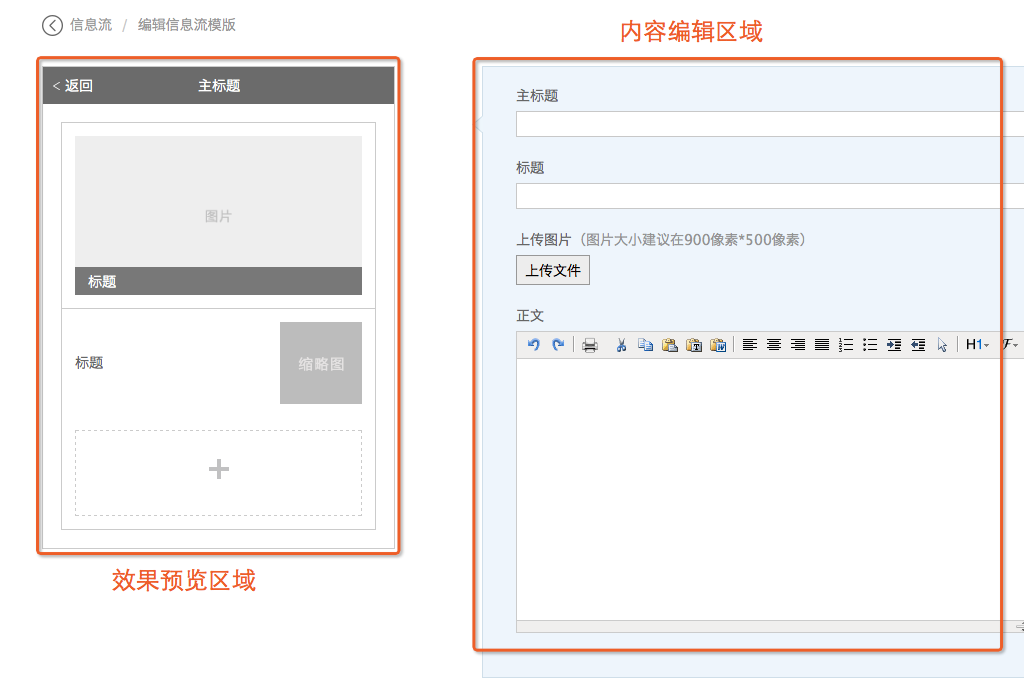
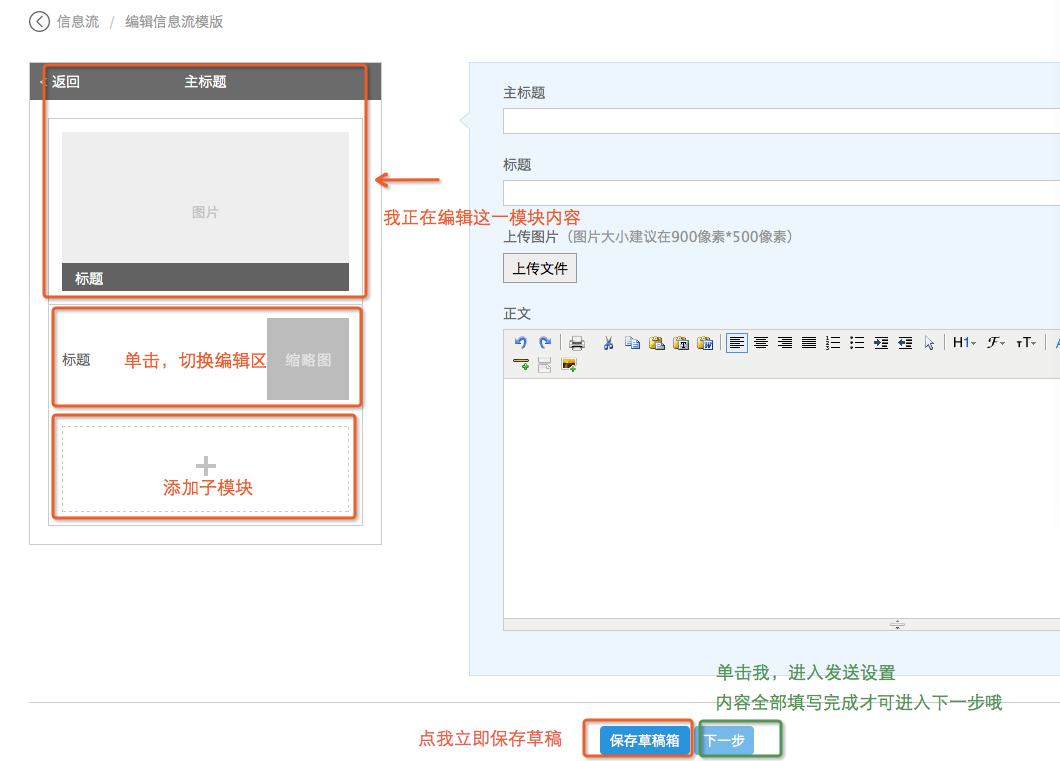
富媒体图文说明更新

Changed region(s): [[0.0, 0.0, 1.0, 1.0]]

diff --git a/zh/docs/guideline/statistical_report.md b/zh/docs/guideline/statistical_report.md
@@ -75,22 +75,51 @@ img[alt=jpush_web] { width: 700px; }
 
 ## 富媒体推送
 
-可推送不同形式的富媒体通知，现阶段可以使用信息流模板和通过URL发送富媒体通知。极光后续会推出更多的模板形式。
+可通过模板发送landing page、弹窗、信息流形式的富媒体通知，或者直接通过URL发送预先编辑好的页面。另外可以通过草稿箱，管理模板草稿。
+
+### 通过landing page 模板发送
+
+* Step1：在应用的“推送”模块，单击“富媒体”按钮；选择“landing page”，目前landing page只提供一种通用模板。
+
+![jpush_web](image/landingpage-1.png)
+
+* Step2：进入模板内容编辑页面，填写所有内容，单击下一步；左侧可预览内容的展示效果；单击【保存草稿】，供以后编辑，从草稿箱中可以找到之前保存的草稿。
+
+![jpush_web](image/landingpage-2.png)
+
+* Step3：进行推送设置。单击“预览富媒体页面”，可以预览刚刚编辑完成的landing page模板。单击页面最下方的 "立即发送" 按钮，即可完成该landing page的发送。
+
+![jpush_web](image/landingpage-3.png)
+
+### 通过弹窗模板发送
+
+* Step1：在应用的“推送”模块，单击“富媒体”按钮；选择“弹窗”，挑选适合的模板。
+
+![jpush_web](image/popup-1.png)
+
+* Step2：进入模板内容编辑页面，填写所有内容，单击下一步；左侧可预览内容的展示效果；单击【保存草稿】，供以后编辑，从【草稿箱】中可以找到之前保存的草稿。
+
+![jpush_web](image/popup-2.png)
+
+* Step3：进行推送设置。单击“预览富媒体页面”，可以预览刚刚编辑完成的弹窗模板。单击页面最下方的 "立即发送" 按钮，即可完成该弹窗的发送。
+
+![jpush_web](image/popup-3.png)
+
 
 ### 通过信息流模板发送
 * Step1：在应用的“推送”模块，单击“富媒体”按钮；选择“信息流”，挑选适合的模板。
 
 ![jpush_web](image/richpush1.png)
 
-* Step2：进入模板内容编辑页面，填写所有内容，单击下一步；左侧可预览内容的展示效果。通过左侧的预览区域，可以切换编辑模块和添加子模块。
+* Step2：进入模板内容编辑页面，填写所有内容，单击下一步；左侧可预览内容的展示效果。通过左侧的预览区域，可以切换编辑模块和添加子模块。单击【保存草稿】，供以后编辑，从【草稿箱】中可以找到之前保存的草稿。
+
 
 ![jpush_web](image/richpush2.png)
-![image](image/richpush3.png)
 
 
 * Step3：进行推送设置。单击“预览富媒体页面”，可以预览刚刚编辑完成的信息流模板。单击页面最下方的 "立即发送" 按钮，即可完成该信息流的发送。
 
-![jpush_web](image/richpush4.png)
+![jpush_web](image/richpush3.png)
 
 ### 通过URL发送通知
 
@@ -105,6 +134,13 @@ img[alt=jpush_web] { width: 700px; }
 * Step3：进行推送设置。URL不提供页面预览功能，请确保输入正确的URL。单击页面最下方的 "立即发送" 按钮，即可完成发送。
 
 ![jpush_web](image/richpush7.png)
+
+
+### 通过草稿箱管理模板草稿
+
+在应用的“推送”模块，单击“富媒体”按钮，选择“草稿箱”。草稿按最后编辑的时间顺序排列，可选择任一草稿，进行编辑或删除的操作。
+
+![jpush_web](image/draftbox.png)
 
 ## 推送历史
 
